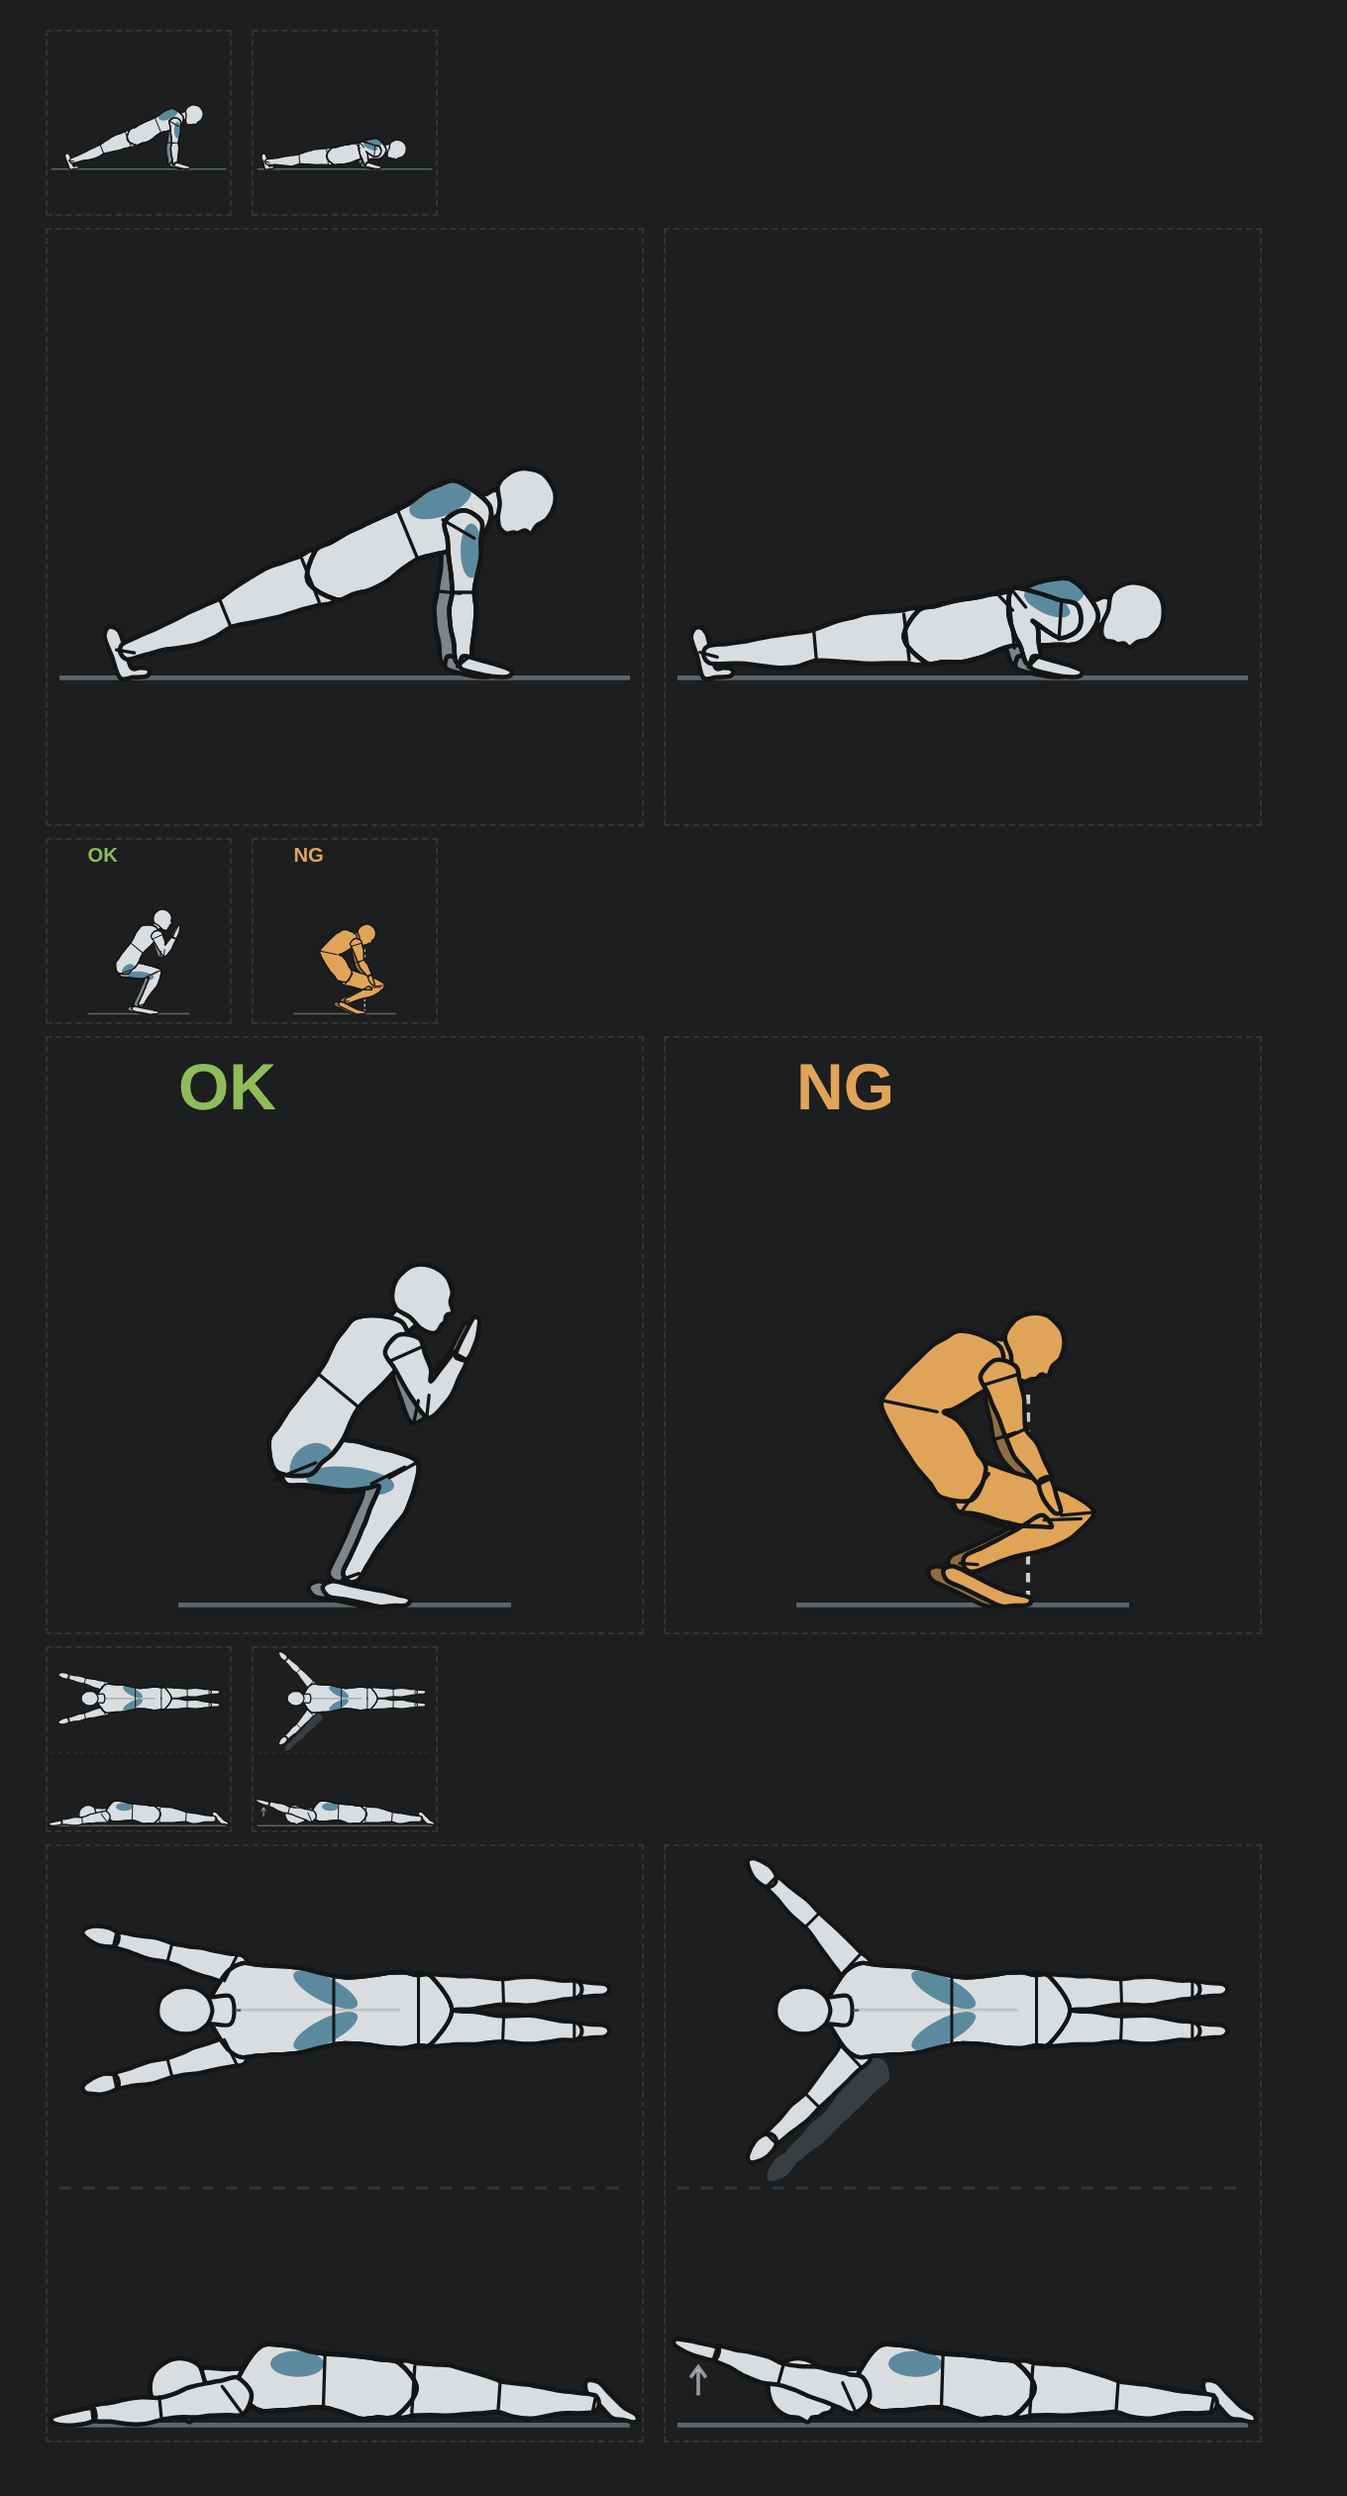
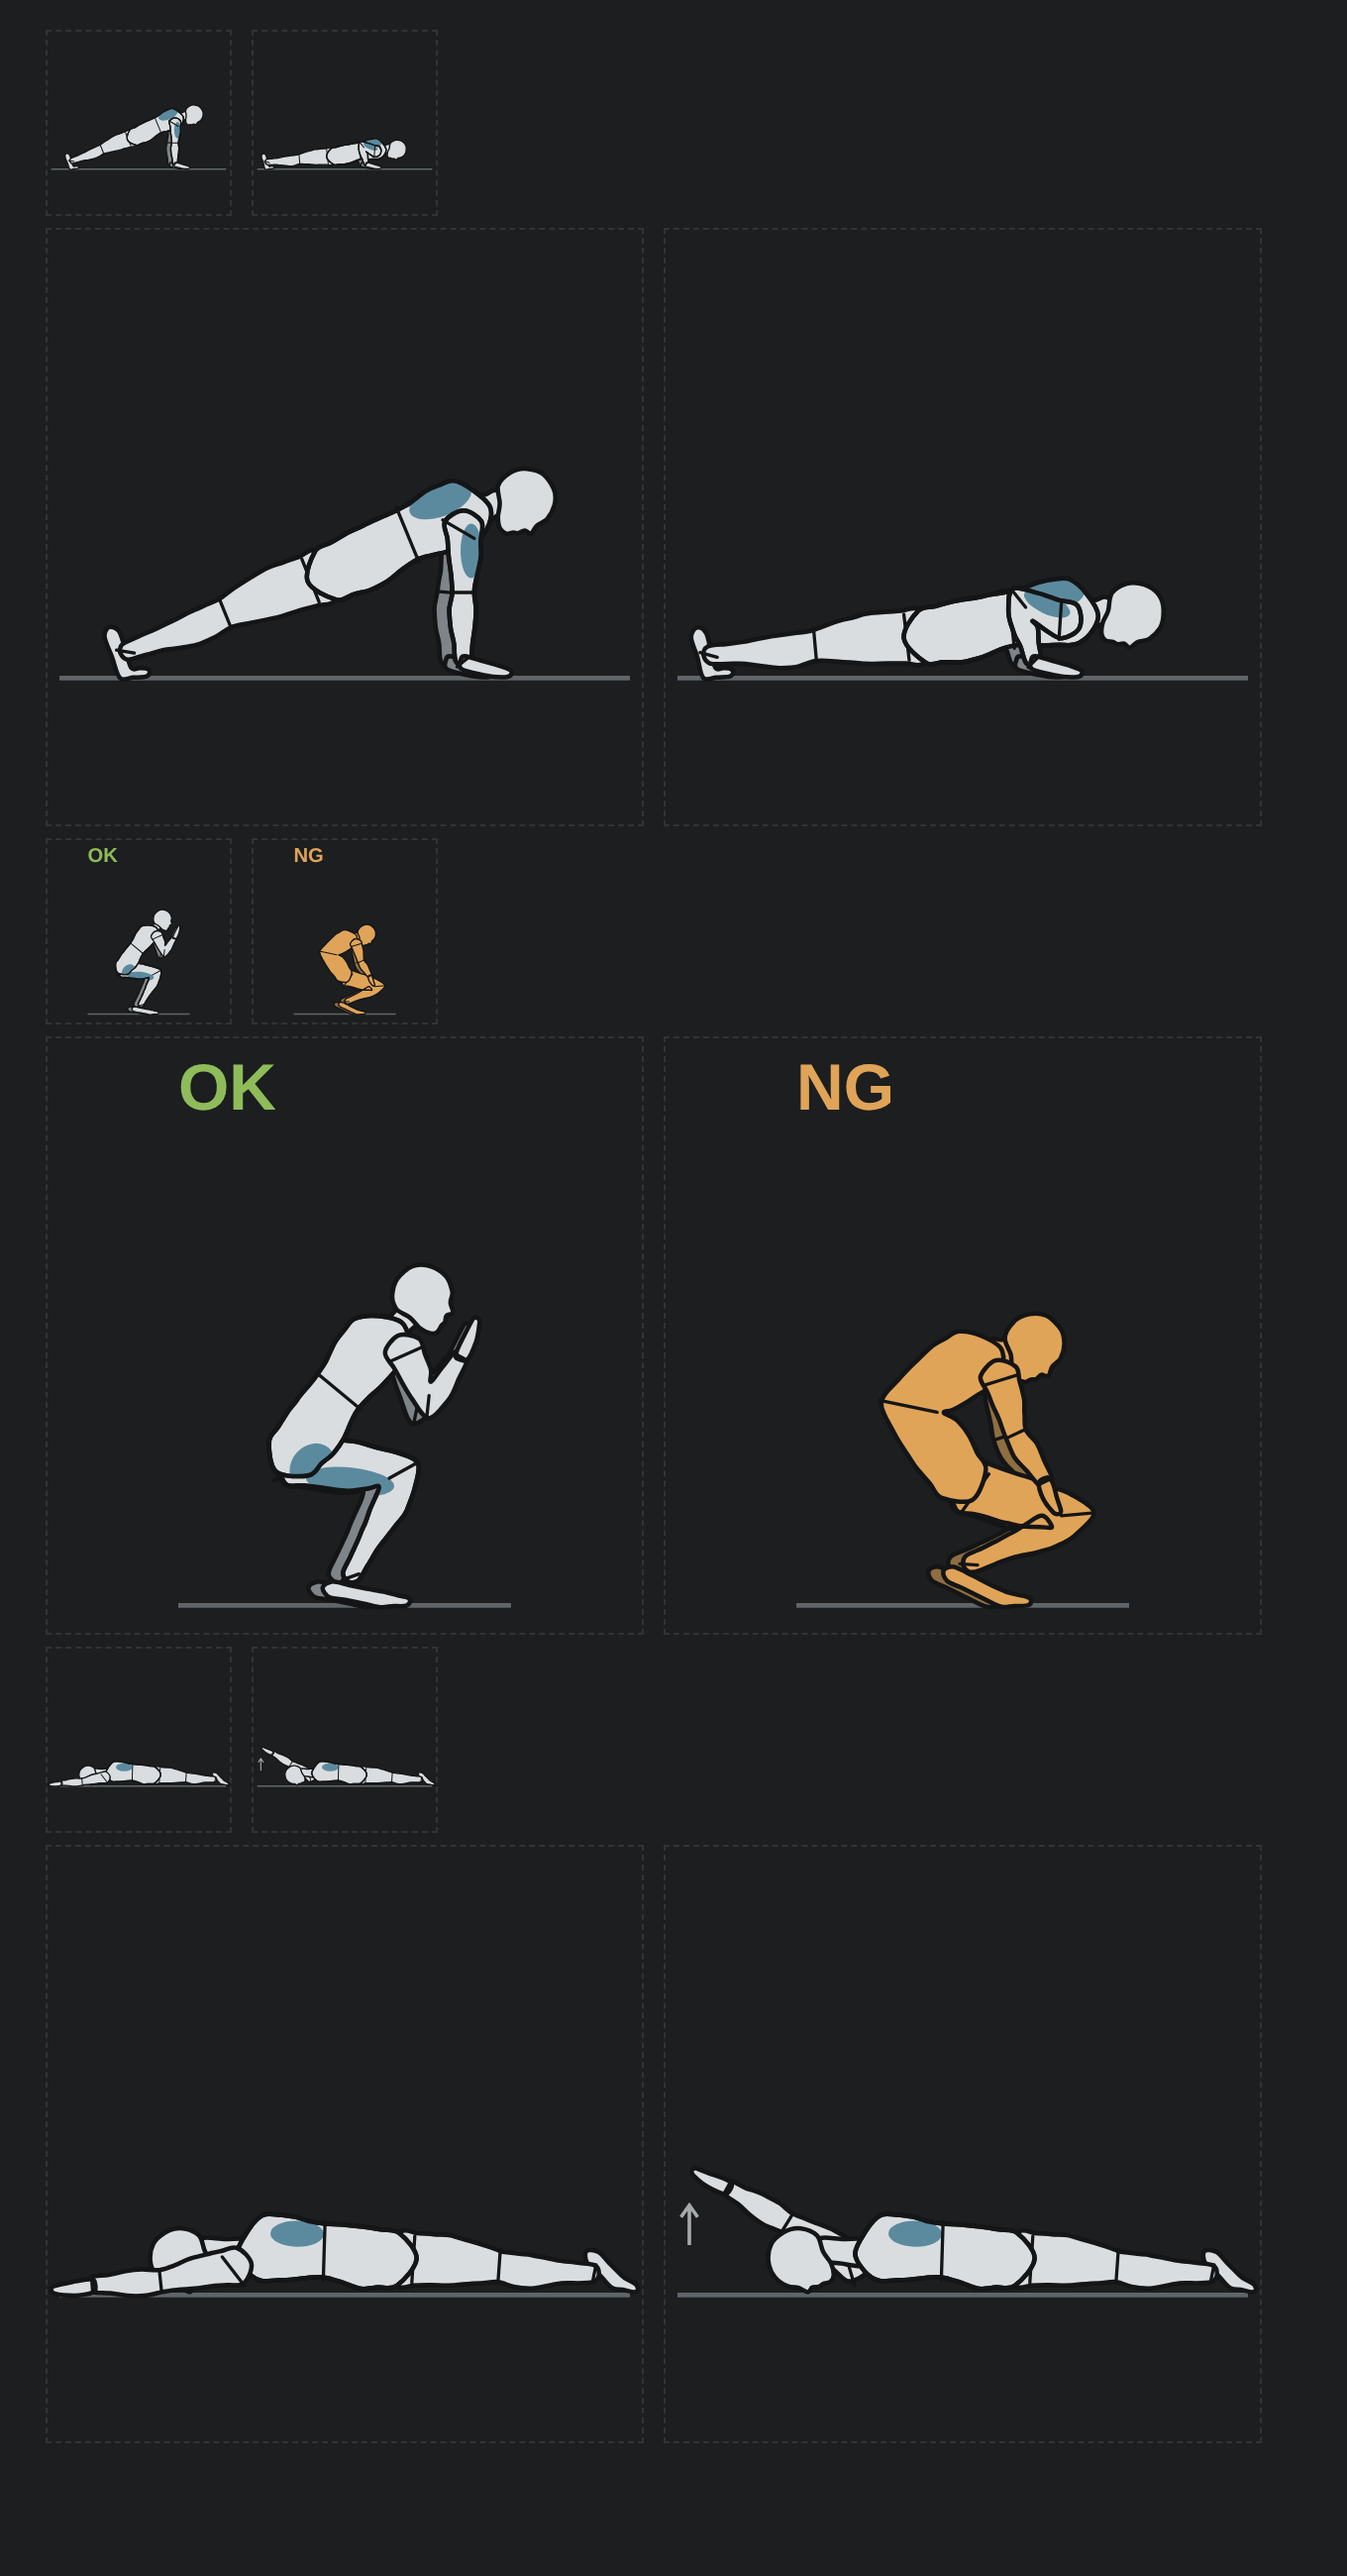
Batch0: draw seams in part order, drop toe guide, side-only prone Y raise
Claude-Session: https://claude.ai/code/session_017vLjagTngFX8ZWQXvU9i3K

diff --git a/kintore_illust/illust/generate.py b/kintore_illust/illust/generate.py
@@ -111,26 +111,28 @@ def seam(f,a,c,b,A,B,far=False,shift=0.0):
     c=add(c,mul(u,shift))
     p=add(c,mul(n,-A)); q=add(c,mul(n,B))
     f.raw(f'<line x1="{p[0]:.1f}" y1="{p[1]:.1f}" x2="{q[0]:.1f}" y2="{q[1]:.1f}"></line>','seamfar' if far else 'seam')
-def side_figure(f,k,far_arm=None,far_leg=None,order='arm_front'):
-    if far_leg: f.part(limb([far_leg['heel'],far_leg['ball'],far_leg['toe']],FOOT,1,0.8),True); f.part(limb([k['hip'],far_leg['knee'],far_leg['ank']],LEG),True)
-    if far_arm: f.part(limb([k['sh'],far_arm['elb'],far_arm['wr']],ARM),True); f.part(limb([far_arm['wr'],far_arm['fing']],HAND,0.5,0.9),True)
+def side_figure(f,k,far_arm=None,far_leg=None,order='arm_front',arm_first=False):
+    tor=k['torso']
+    if far_leg:
+        f.part(limb([far_leg['heel'],far_leg['ball'],far_leg['toe']],FOOT,1,0.8),True); f.part(limb([k['hip'],far_leg['knee'],far_leg['ank']],LEG),True)
+        seam(f,k['hip'],far_leg['knee'],far_leg['ank'],2.9,3.3,True)
+    if far_arm:
+        f.part(limb([k['sh'],far_arm['elb'],far_arm['wr']],ARM),True); f.part(limb([far_arm['wr'],far_arm['fing']],HAND,0.5,0.9),True)
+        seam(f,k['sh'],far_arm['elb'],far_arm['wr'],2.0,1.9,True)
+    def arm():
+        f.part(limb([k['sh'],k['elb'],k['wr']],ARM,0.6,0.5),name='arm')
+        seam(f,tor[0],k['sh'],k['elb'],3.0,3.1,shift=1.6); seam(f,k['sh'],k['elb'],k['wr'],1.9,1.9)
+        f.part(limb([k['wr'],k['fing']],HAND,0.5,0.9),name='hand')
+        seam(f,k['elb'],k['wr'],k['fing'],1.3,1.4)
+    if arm_first: arm()
     f.part(limb([k['hc_neck'],k['N']],NECK),name='neck')
     f.part(head(k['head'],k['ht'],k.get('hs',1)),name='head')
     f.part(limb([k['heel'],k['ball'],k['toe']],FOOT,1,0.8),name='foot')
     f.part(limb([k['hip'],k['knee'],k['ank']],LEG,0.4,0.6),name='leg')
-    f.part(limb(k['torso'],TORSO,0.5,0.7),name='torso')
-    f.part(limb([k['sh'],k['elb'],k['wr']],ARM,0.6,0.5),name='arm')
-    f.part(limb([k['wr'],k['fing']],HAND,0.5,0.9),name='hand')
-    tor=k['torso']
-    if far_leg: seam(f,k['hip'],far_leg['knee'],far_leg['ank'],2.9,3.3,True)
-    if far_arm: seam(f,k['sh'],far_arm['elb'],far_arm['wr'],2.0,1.9,True)
+    seam(f,tor[1],k['hip'],k['knee'],3.9,3.9,shift=2.6); seam(f,k['hip'],k['knee'],k['ank'],2.7,2.9); seam(f,k['knee'],k['ank'],k['toe'],1.5,1.5)
+    f.part(limb(tor,TORSO,0.5,0.7),name='torso')
     seam(f,tor[0],tor[1],tor[2],4.3,5.6)
-    seam(f,tor[1],k['hip'],k['knee'],3.9,3.9,shift=2.6)
-    seam(f,k['hip'],k['knee'],k['ank'],2.7,2.9)
-    seam(f,k['knee'],k['ank'],k['toe'],1.5,1.5)
-    seam(f,tor[0],k['sh'],k['elb'],3.0,3.1,shift=1.6)
-    seam(f,k['sh'],k['elb'],k['wr'],1.9,1.9)
-    seam(f,k['elb'],k['wr'],k['fing'],1.3,1.4)
+    if not arm_first: arm()
 S={}
 # ---- pushup 1
 f=Fig('pu1'); f.raw(FLOOR_H)
@@ -167,7 +169,6 @@ side_figure(f,k,far_arm=dict(elb=(42,63),wr=(48,54.5),fing=(50.5,48.5)),far_leg=
 S['squat_1']=f.svg('0 0 60 100','スクワット 良い例')
 # ---- squat NG
 f=Fig('sq2'); f.raw(FLOOR_V); f.raw(NGT)
-f.raw('<line x1="41" y1="60" x2="41" y2="94.6" stroke="#6E6E6E" stroke-width="0.7" stroke-dasharray="1.6 1.4"></line>')
 hip=(30,75); N=(35,53); mid=(21.5,62); hc=(41.5,51.8); ht=55
 k=dict(sh=(36,56),elb=(39,66.5),wr=(44,74.5),fing=(46,79.5),hip=hip,knee=(49.5,80),ank=(31,88.5),heel=(28,90),ball=(37,94.1),toe=(41,94.6),
  N=N,torso=[N,mid,hip],head=hc,ht=ht,hc_neck=hpt(hc,ht,-1.2,3.2))
@@ -179,46 +180,22 @@ LT=[[(0,3.6,3.6),(0.6,3.0,3.0),(1,2.3,2.3)],[(0,2.3,2.3),(0.3,2.6,2.6),(1,1.5,1.
 AT=[[(0,2.8,2.8),(0.5,2.4,2.4),(1,1.8,1.8)],[(0,1.8,1.8),(0.3,2.0,2.0),(1,1.3,1.3)]]
 HT=[[(0,1.3,1.3),(0.5,1.7,1.7),(1,1.0,1.0)]]
 def prone(n):
-    f=Fig(f'py{n}')
-    if n==1: arms=[((31,23),(18,19.5),(8,17),(3,15.8)),((31,37),(18,40.5),(8,43),(3,44.2))]
-    else: arms=[((31,23),(22.5,13.5),(15,6.5),(11.5,3)),((31,37),(22.5,46.5),(15,53.5),(11.5,57))]
-    if n==2:
-        for a in arms:
-            sh=[add(p,(3.5,3.5)) for p in a]
-            f.raw(f'<path d="{limb(list(sh[:3]),AT)}" fill="#D9D9D9"></path><path d="{limb([sh[2],sh[3]],HT,0.5,0.9)}" fill="#D9D9D9"></path>')
-    f.plan_m(['torso'],[(46.5,26.2,6.5,2.2,27),(46.5,33.8,6.5,2.2,-27)])
-    for y0,y1,y2 in ((27,26.6,26.2),(33,33.4,33.8)):
-        f.part(limb([(92,y2),(97.5,y2)],[[(0,1.4,1.4),(1,1.0,1.0)]],0.6,0.9))
-        f.part(limb([(63,y0),(79,y1),(92.5,y2)],LT,0.4,0.6))
-    for a in arms:
-        f.part(limb(list(a[:3]),AT,0.6,0.5),name='arm'); f.part(limb([a[2],a[3]],HT,0.5,0.9))
-    f.part(limb([(26,30),(66,30)],TT,0.4,0.6),name='torso')
-    f.part(limb([(19,30),(29,30)],[[(0,2.0,2.0),(1,2.6,2.6)]],0.3,0.3))
-    f.part(cr([(21+5*math.cos(a/16*2*math.pi)*(1.05 if math.cos(a/16*2*math.pi)<0 else 0.95),30+4.3*math.sin(a/16*2*math.pi)) for a in range(16)]),name='head')
-    f.raw(f'<path d="M30 30 L60 30" stroke="#8C8C8C" stroke-width="0.5"></path>')
-    f.raw(f'<path d="M31 30 L60 30" stroke="#6E6E6E" stroke-width="0.5"></path>')
-    for y0,y1,y2 in ((27,26.6,26.2),(33,33.4,33.8)):
-        seam(f,(55,y0),(63.5,y0),(79,y1),3.4,3.4); seam(f,(63,y0),(79,y1),(92,y2),2.6,2.6); seam(f,(79,y1),(92,y2),(97,y2),1.5,1.5)
-    seam(f,(30,30),(48,30),(66,30),6.0,6.0)
-    for a_ in arms:
-        seam(f,(40,30),a_[0],a_[1],2.8,2.8,shift=2.0); seam(f,a_[0],a_[1],a_[2],2.0,2.0); seam(f,a_[1],a_[2],a_[3],1.3,1.3)
-    top=f.inner()
     g=Fig(f'pys{n}')
     k=dict(N=(66.5,90.4),hip=(41,91.2),knee=(24,92.6),ank=(8,93.8),heel=(8.4,91.0),ball=(4.4,95.4),toe=(1.2,96.4),
            head=(77,91.2),ht=95,sh=(67.5,92.4))
     k['torso']=[k['N'],(53.5,90.6),k['hip']]; k['hc_neck']=hpt(k['head'],k['ht'],-1.2,3.2)
-    if n==1: k.update(elb=(81,94.6),wr=(92.5,95.4),fing=(98.8,96.4))
-    else: k.update(elb=(80.6,88.8),wr=(91.6,85.2),fing=(98,83.4))
+    if n==1: k.update(elb=(81,95),wr=(92.5,95.6),fing=(98.8,96.4))
+    else: k.update(elb=(79.5,85.2),wr=(89.5,79.2),fing=(95,76.6))
     c1,a1=bone_pt(k['N'],(53.5,90.6),0.65,3.4)
     g.plan_m(['torso'],[(c1[0],c1[1],4.5,2.2,a1)])
-    side_figure(g,k)
-    if n==2: g.raw('<path d="M94.5 92.4 L94.5 88" stroke="#1E1E1E" stroke-width="0.6" opacity="0.7"></path><path d="M93.2 89.4 L94.5 87.6 L95.8 89.4" fill="none" stroke="#1E1E1E" stroke-width="0.6" opacity="0.7"></path>')
+    side_figure(g,k,arm_first=(n==2))
+    if n==2: g.raw('<path d="M96 89 L96 82.5 M94.6 84.3 L96 82.3 L97.4 84.3" fill="none" stroke="#1E1E1E" stroke-width="0.6" opacity="0.8"></path>')
     sv=g.inner()
-    inner=f'<g transform="translate(4 0) scale(0.92)">{top}</g><line x1="2" y1="57.5" x2="98" y2="57.5" stroke="#33373A" stroke-width="0.5" stroke-dasharray="2 2"></line><line x1="2" y1="97.4" x2="98" y2="97.4" stroke="#5F6569" stroke-width="0.8"></line><g transform="translate(100 0) scale(-1 1)">{sv}</g>'
-    return f'<svg xmlns="http://www.w3.org/2000/svg" viewBox="0 0 100 100" role="img" aria-label="プローンYレイズ 上から見た図と横から見た図 '+('腕を下ろす' if n==1 else '腕をY字に浮かす')+f'">{inner}</svg>'
+    inner=f'<line x1="2" y1="55.4" x2="98" y2="55.4" stroke="#5F6569" stroke-width="0.8"></line><g transform="translate(100 -42) scale(-1 1)">{sv}</g>'
+    return f'<svg xmlns="http://www.w3.org/2000/svg" viewBox="0 0 100 60" role="img" aria-label="プローンYレイズ 横から '+('うつ伏せで腕を前に伸ばす' if n==1 else '腕を床から浮かす')+f'">{inner}</svg>'
 S['prone_y_raise_1']=prone(1); S['prone_y_raise_2']=prone(2)
-json.dump(S,open('/tmp/claude-0/gen2/svgs5.json','w'),ensure_ascii=False)
+json.dump(S,open('/tmp/claude-0/gen2/svgs6.json','w'),ensure_ascii=False)
 html='<style>div>svg{width:100%;height:100%;display:block}</style><body style="background:#1C1E1F;margin:16px">'
 for nm in ['pushup','squat','prone_y_raise']:
     for s in (92,300): html+=f'<div style="display:flex;gap:12px;margin:8px"><div style="width:{s}px;height:{s}px;outline:1px dashed #333">{S[nm+"_1"]}</div><div style="width:{s}px;height:{s}px;outline:1px dashed #333">{S[nm+"_2"]}</div></div>'
-open('/tmp/claude-0/gen2/p5.html','w').write(html)
+open('/tmp/claude-0/gen2/p6.html','w').write(html)
